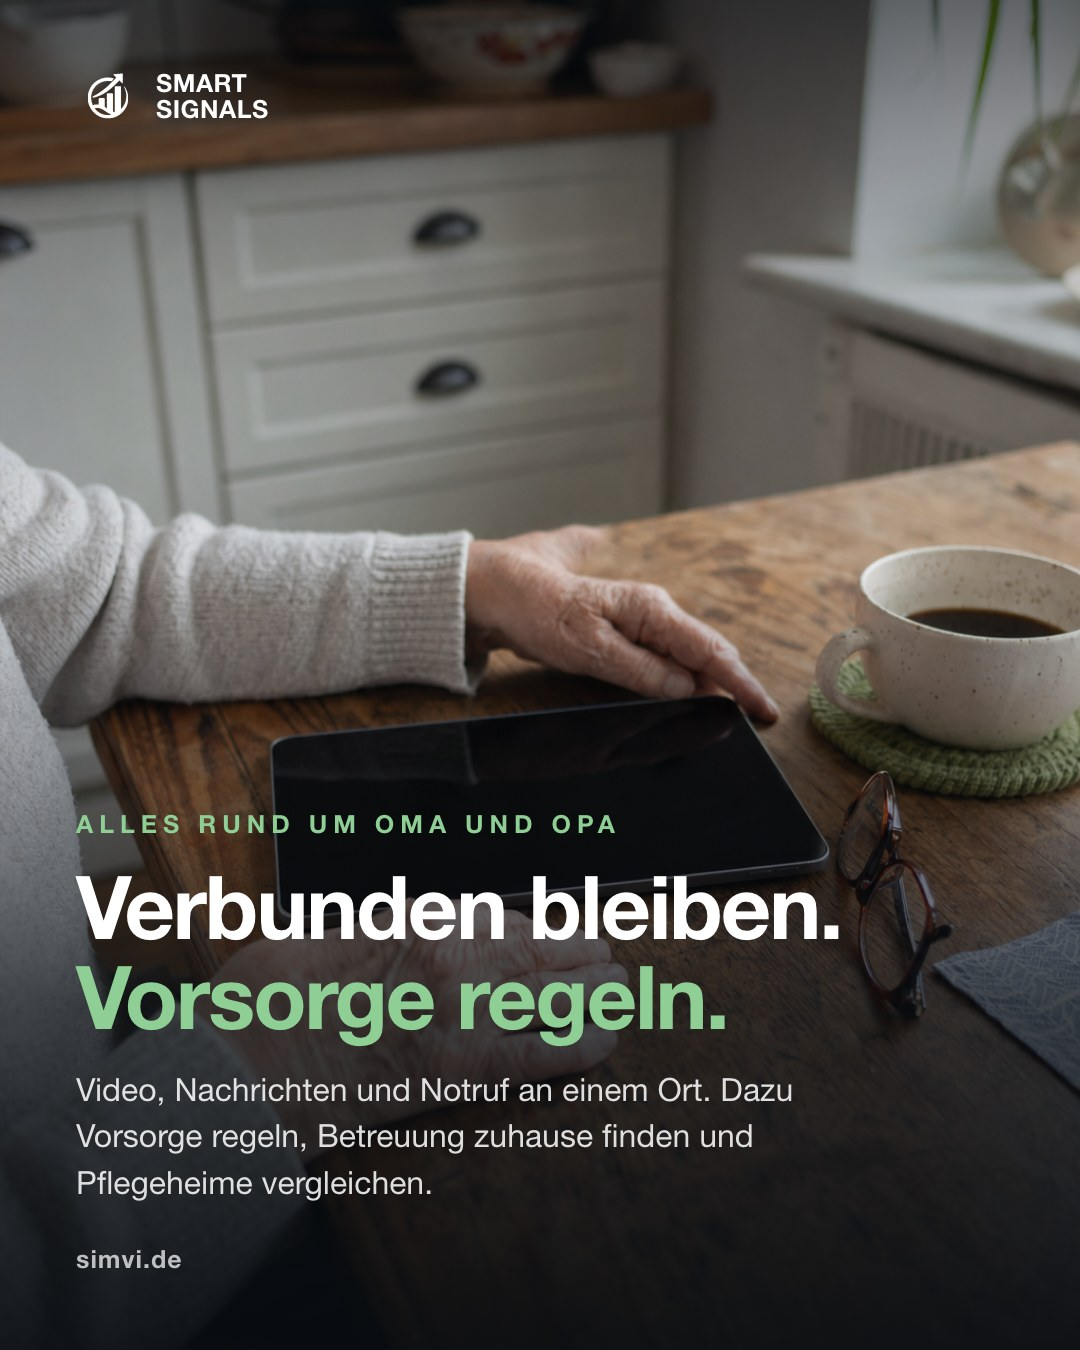
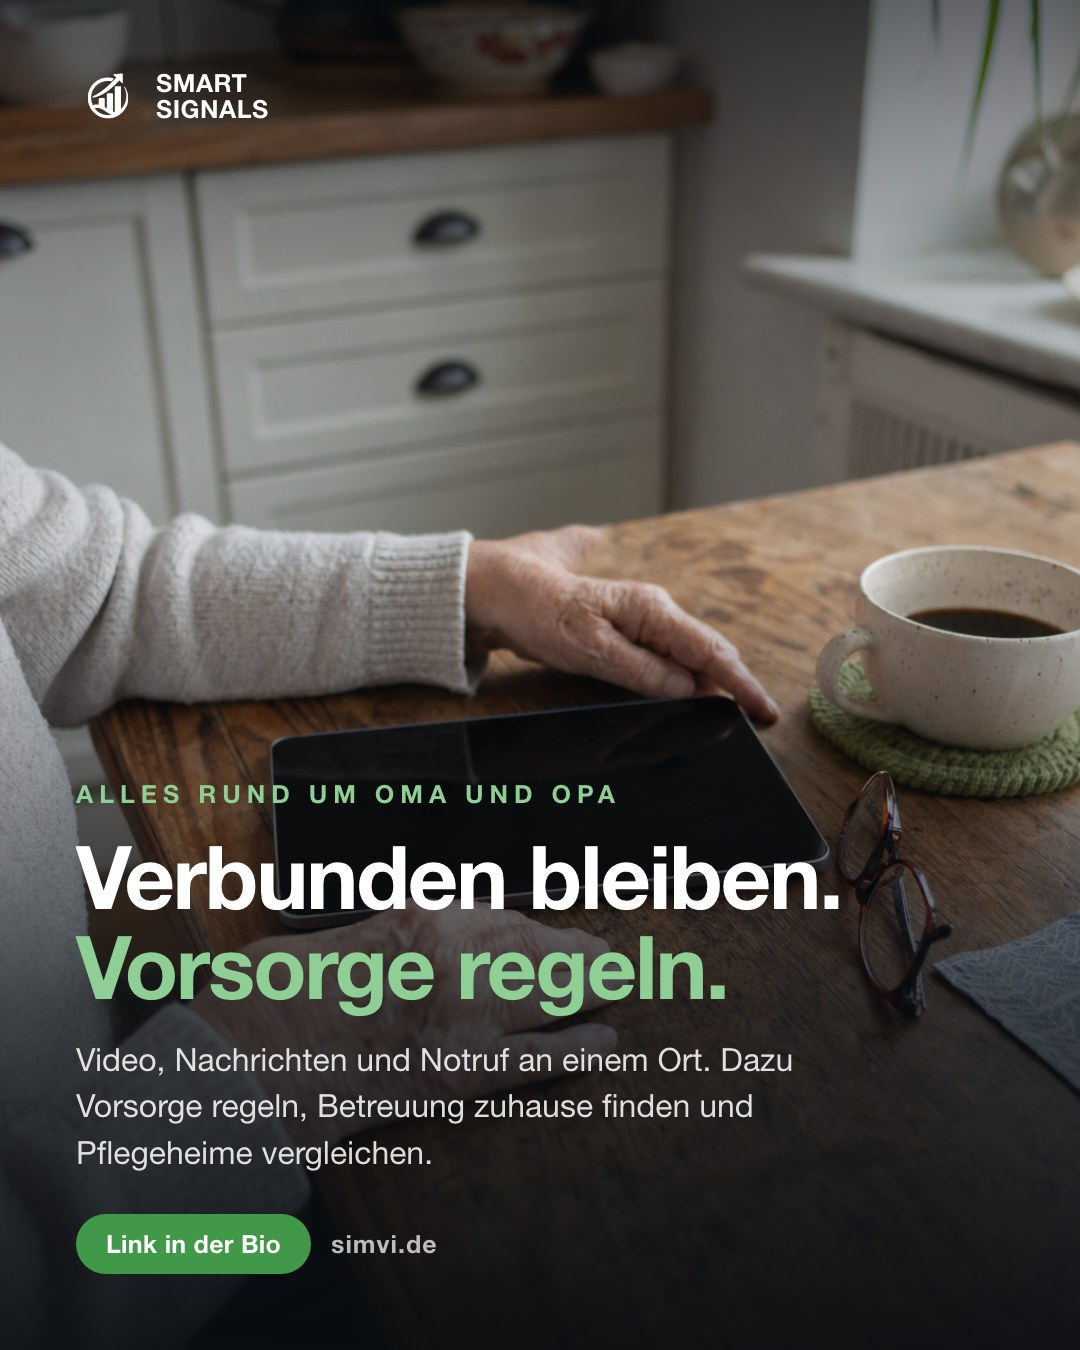
feat(social): Brezn und Obatzda benannt, Handlungsaufforderung auf die Motive
Die "Specials" waren unbenannt und damit nach Paragraf 5a UWG eine
vorenthaltene wesentliche Information. Rainer hat sie genannt: eine Runde
Brezn und Obatzda fuer den Tisch. Steht jetzt auf dem Motiv, in der Caption,
auf der Aktionsseite und in den Bedingungen, jeweils mit der Klarstellung,
dass alles andere selbst gezahlt wird.

Dazu auf allen Motiven ein gruener Knopf "Link in der Bio". Bisher stand dort
nur die Domain, und die ist auf Instagram nicht anklickbar: Beitragstexte
werden grundsaetzlich nicht verlinkt. Die Domain bleibt daneben stehen, wer
sie tippen will, sieht sie weiterhin.

Claude-Session: https://claude.ai/code/session_01G2ZF2qvunrkfC7rCNcH9Qx

Changed region(s): [[0.0611, 0.56, 0.7944, 0.9644]]

diff --git a/src/app/wiesn2026/teilnahmebedingungen/page.tsx b/src/app/wiesn2026/teilnahmebedingungen/page.tsx
@@ -37,7 +37,8 @@ const ABSCHNITTE: { titel: string; text: string[] }[] = [
       "Die Comms Connect GmbH hat am Samstag, 26.09.2026, von 11:30 bis 15:30 Uhr einen Tisch " +
         "in der Käfer Wiesn-Schänke auf dem Oktoberfest München. An diesem Tisch sind 20 Plätze. " +
         "Rainer Roloff ist selbst da.",
-      "Vergeben wird der Sitzplatz. Speisen und Getränke bestellt und bezahlt jeder Gast selbst. " +
+      "Vergeben wird der Sitzplatz. Eine Runde Brezn und Obatzda für den Tisch geht auf den " +
+        "Gastgeber. Alle weiteren Speisen und Getränke bestellt und bezahlt jeder Gast selbst. " +
         "Es gibt kein Programm, keine Präsentationen und keine Pitches.",
       "Dies ist kein Gewinnspiel. Es wird nicht gelost. Wer am Tisch sitzt, entscheidet die " +
         "Comms Connect GmbH nach den Kriterien in Abschnitt 3.",

diff --git a/src/app/wiesn2026/page.tsx b/src/app/wiesn2026/page.tsx
@@ -295,9 +295,9 @@ export default function WiesnPage() {
                     Selbstzahler und ab 18 zu, und Meta prueft, ob die Seite
                     dasselbe sagt wie die Anzeige. */}
                 <p className="mt-3 text-center text-sm text-text-muted">
-                  Vergeben wird der Platz am Tisch. Speisen und Getränke
-                  bestellt und bezahlt jeder selbst. Teilnahme ab 18 Jahren,
-                  im Zelt wird Alkohol ausgeschenkt.
+                  Eine Runde Brezn und Obatzda für den Tisch geht auf uns. Alle
+                  weiteren Speisen und Getränke zahlst du selbst. Teilnahme ab
+                  18 Jahren, im Zelt wird Alkohol ausgeschenkt.
                 </p>
 
                 <div className="mt-8 border-t border-border pt-6">
